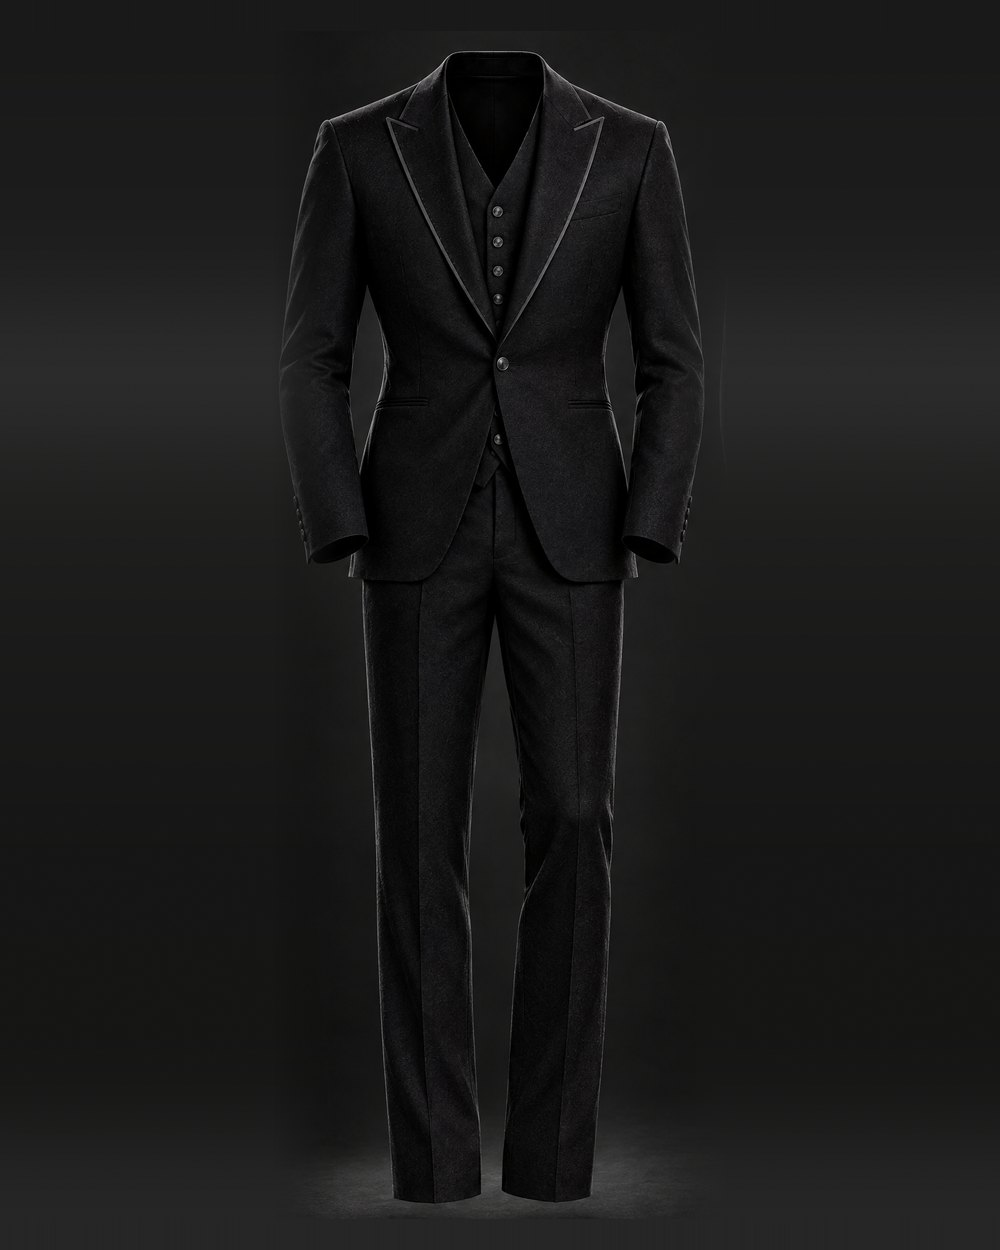
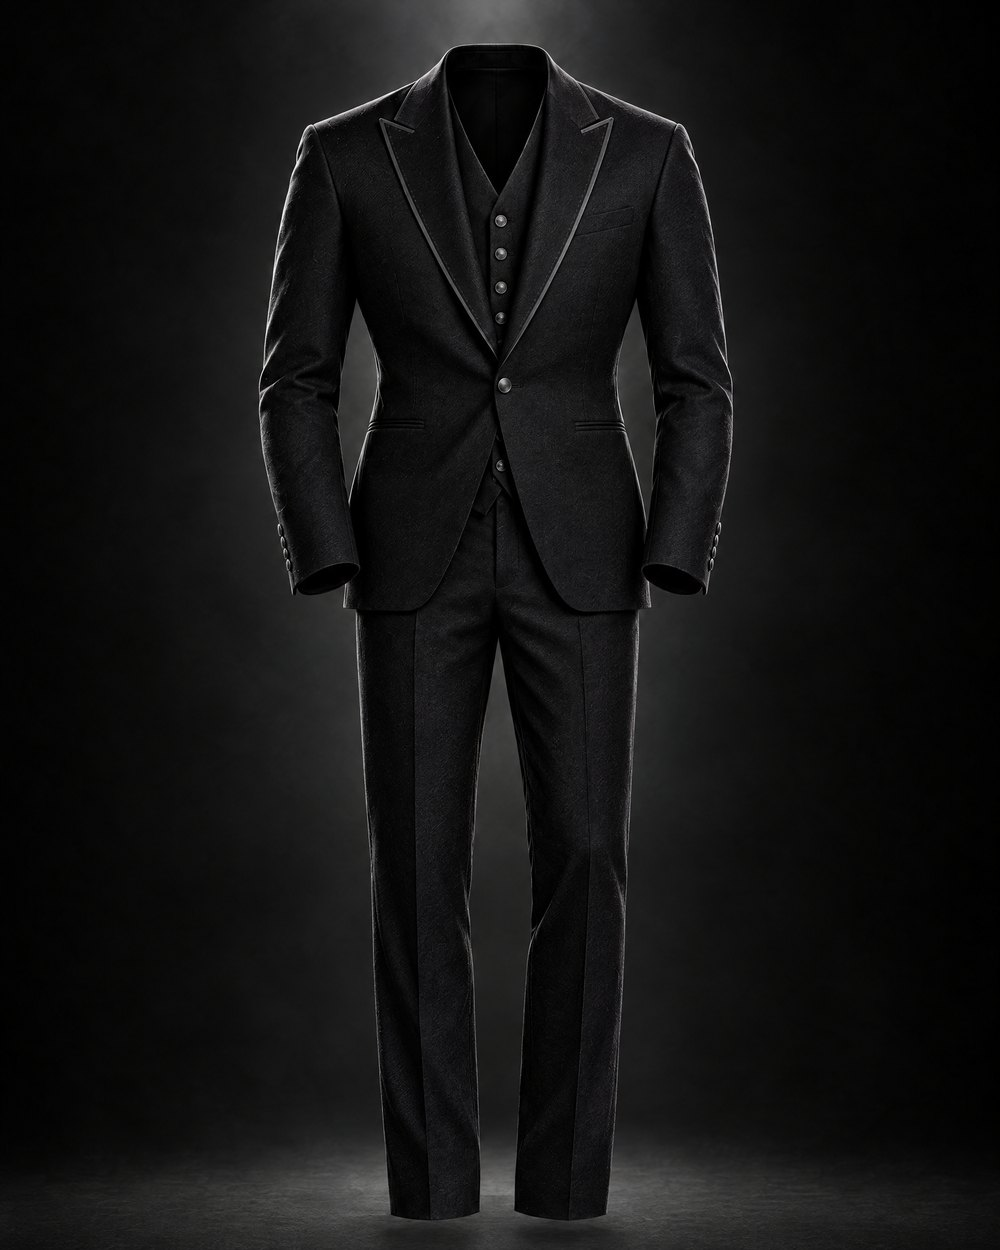
Use full-frame suit product shots
Front and back are now dedicated 4:5 photos with a seamless studio
background instead of crops from the presentation board.

diff --git a/index.html b/index.html
@@ -10,7 +10,7 @@
 <link rel="preconnect" href="https://fonts.googleapis.com">
 <link rel="preconnect" href="https://fonts.gstatic.com" crossorigin>
 <link href="https://fonts.googleapis.com/css2?family=Inter:wght@400;500;600;700&family=Cormorant+Garamond:ital,wght@1,400;1,500&display=swap" rel="stylesheet">
-<link rel="stylesheet" href="css/styles.css?v=6">
+<link rel="stylesheet" href="css/styles.css?v=7">
 </head>
 <body>
 <a class="skip-link" href="#main">Skip to content</a>
@@ -118,8 +118,8 @@
     </article>
     <article class="product-card" data-rise>
       <a href="product.html?p=suit" class="product-media" aria-label="UMBRA Suit">
-        <img src="assets/suit-front.jpg?v=2" alt="UMBRA Suit, front: midnight-black three-piece with peak lapels edged in graphite silk" class="img-front">
-        <img src="assets/suit-back.jpg?v=2" alt="" class="img-back" loading="lazy">
+        <img src="assets/suit-front.jpg?v=3" alt="UMBRA Suit, front: midnight-black three-piece with peak lapels edged in graphite silk" class="img-front">
+        <img src="assets/suit-back.jpg?v=3" alt="" class="img-back" loading="lazy">
         <span class="product-tag">Three-piece</span>
       </a>
       <div class="product-info">
@@ -244,11 +244,11 @@
 <script src="https://cdnjs.cloudflare.com/ajax/libs/gsap/3.13.0/gsap.min.js"></script>
 <script src="https://cdnjs.cloudflare.com/ajax/libs/gsap/3.13.0/ScrollTrigger.min.js"></script>
 <script src="https://cdnjs.cloudflare.com/ajax/libs/gsap/3.13.0/SplitText.min.js"></script>
-<script src="js/products.js?v=6"></script>
-<script src="js/shop-config.js?v=6"></script>
-<script src="js/shopify.js?v=6"></script>
-<script src="js/paypal.js?v=6"></script>
-<script src="js/cart.js?v=6"></script>
-<script src="js/main.js?v=6"></script>
+<script src="js/products.js?v=7"></script>
+<script src="js/shop-config.js?v=7"></script>
+<script src="js/shopify.js?v=7"></script>
+<script src="js/paypal.js?v=7"></script>
+<script src="js/cart.js?v=7"></script>
+<script src="js/main.js?v=7"></script>
 </body>
 </html>

diff --git a/product.html b/product.html
@@ -10,7 +10,7 @@
 <link rel="preconnect" href="https://fonts.googleapis.com">
 <link rel="preconnect" href="https://fonts.gstatic.com" crossorigin>
 <link href="https://fonts.googleapis.com/css2?family=Inter:wght@400;500;600;700&family=Cormorant+Garamond:ital,wght@1,400;1,500&display=swap" rel="stylesheet">
-<link rel="stylesheet" href="css/styles.css?v=6">
+<link rel="stylesheet" href="css/styles.css?v=7">
 </head>
 <body class="page-product">
 <a class="skip-link" href="#main">Skip to content</a>
@@ -101,11 +101,11 @@
   </div>
 </footer>
 
-<script src="js/products.js?v=6"></script>
-<script src="js/shop-config.js?v=6"></script>
-<script src="js/shopify.js?v=6"></script>
-<script src="js/paypal.js?v=6"></script>
-<script src="js/cart.js?v=6"></script>
-<script src="js/product.js?v=6"></script>
+<script src="js/products.js?v=7"></script>
+<script src="js/shop-config.js?v=7"></script>
+<script src="js/shopify.js?v=7"></script>
+<script src="js/paypal.js?v=7"></script>
+<script src="js/cart.js?v=7"></script>
+<script src="js/product.js?v=7"></script>
 </body>
 </html>

diff --git a/thank-you.html b/thank-you.html
@@ -10,7 +10,7 @@
 <link rel="preconnect" href="https://fonts.googleapis.com">
 <link rel="preconnect" href="https://fonts.gstatic.com" crossorigin>
 <link href="https://fonts.googleapis.com/css2?family=Inter:wght@400;500;600;700&family=Cormorant+Garamond:ital,wght@1,400;1,500&display=swap" rel="stylesheet">
-<link rel="stylesheet" href="css/styles.css?v=6">
+<link rel="stylesheet" href="css/styles.css?v=7">
 </head>
 <body class="page-product">
 <a class="skip-link" href="#main">Skip to content</a>
@@ -42,9 +42,9 @@
   </div>
 </footer>
 
-<script src="js/products.js?v=6"></script>
-<script src="js/shop-config.js?v=6"></script>
-<script src="js/cart.js?v=6"></script>
+<script src="js/products.js?v=7"></script>
+<script src="js/shop-config.js?v=7"></script>
+<script src="js/cart.js?v=7"></script>
 <script>
   // Paid: empty the bag and show the order reference PayPal sent back
   (function () {

diff --git a/js/products.js b/js/products.js
@@ -85,8 +85,8 @@ window.UMBRA_PRODUCTS = {
     soldOut: [],
     fit: "Tailored modern fit with a sculpted waist and structured shoulders. EU jacket sizes; trousers are sized to match and can be hemmed to length.",
     images: [
-      { src: "assets/suit-front.jpg?v=2", alt: "The Suit, front, with the waistcoat inside the jacket" },
-      { src: "assets/suit-back.jpg?v=2", alt: "The Suit, back" },
+      { src: "assets/suit-front.jpg?v=3", alt: "The Suit, front, with the waistcoat inside the jacket" },
+      { src: "assets/suit-back.jpg?v=3", alt: "The Suit, back" },
       { src: "assets/suit-model.jpg", alt: "The Suit worn with a white shirt and black tie" },
       { src: "assets/suit-ghost.jpg", alt: "The Suit under a single spotlight" },
       { src: "assets/suit-lapel.jpg", alt: "Peak lapel with the graphite silk edge line" },

diff --git a/tools/crop_assets.py b/tools/crop_assets.py
@@ -95,8 +95,10 @@ save(pants.crop((1418, 1238, 2048, 1625)), "note-hardware.jpg")
 # The Suit: front/back from the board, details from its close-up column,
 # plus the floating suit and the campaign shot as wide gallery images
 suit = Image.open(SRC / "suit-board.png").convert("RGB")
-tall_card(suit, (20, 90, 760, 2010), "suit-front.jpg")
-tall_card(suit, (745, 90, 1395, 2010), "suit-back.jpg")
+# front/back are dedicated full-frame 4:5 shots, generated for the product card
+for view in ("front", "back"):
+    im = Image.open(SRC / f"suit-{view}-full.png").convert("RGB")
+    save(im.resize((1000, 1250), Image.LANCZOS), f"suit-{view}.jpg")
 save(suit.crop((1412, 0, 2048, 419)).resize((1000, 659), Image.LANCZOS), "suit-lapel.jpg")
 save(suit.crop((1412, 428, 2048, 801)).resize((1000, 587), Image.LANCZOS), "suit-button.jpg")
 save(suit.crop((1412, 810, 2048, 1201)).resize((1000, 615), Image.LANCZOS), "suit-waistcoat.jpg")
